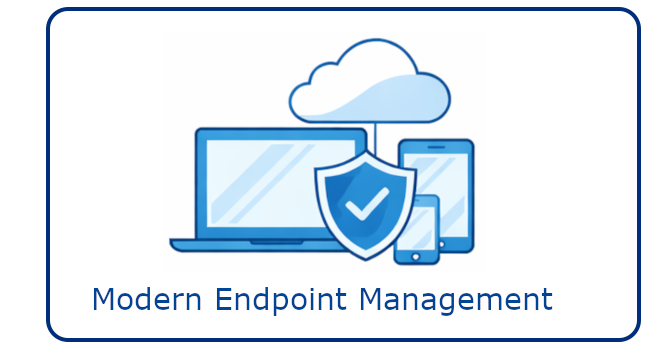
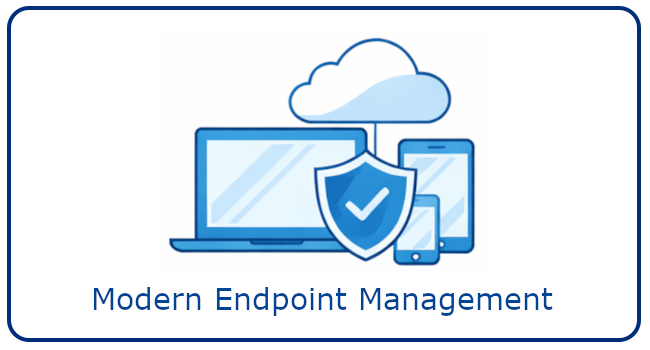
portfolio text update

Changed region(s): [[0.0, 0.0, 0.1231, 1.0], [0.9538, 0.0286, 0.9846, 0.0571]]

diff --git a/assets/css/custom-styles.css b/assets/css/custom-styles.css
@@ -4,6 +4,12 @@
   height: 700px; /* fixed height instead of vh */
   background: url('/assets/img/header.jpg') center center no-repeat;
   background-size: cover;
+  @media (max-width: 768px) {
+    .header {
+      height: 420px;
+      background-position: center top; /* keep image focus better */
+    }
+  }
 }
 
 .header-overlay {
@@ -22,17 +28,6 @@
   width: 90%;
 }
 
-/* Mobile adjustment */
-@media (max-width: 768px) {
-  .header {
-    height: 420px;
-    background-position: center top; /* keep image focus better */
-  }
-  .header-content h1 {
-    font-size: 2rem;
-  }
-}
-
 .portfolio-box {
     position: relative;
     display: block;
@@ -42,7 +37,7 @@
         color: white;
         opacity: 0;
         display: block;
-        background: rgba(0,0,0,0.55);
+        background: hex(#0000ff);
         position: absolute;
         bottom: 0;
         text-align: center;
@@ -61,11 +56,10 @@
                 padding: 0 15px;
             }
             .project-category {
-                font-weight: 600;
                 font-size: 18px;
             }
             .project-name {
-                font-size: 14px;
+                font-size: 12px;
             }
         }
     }
